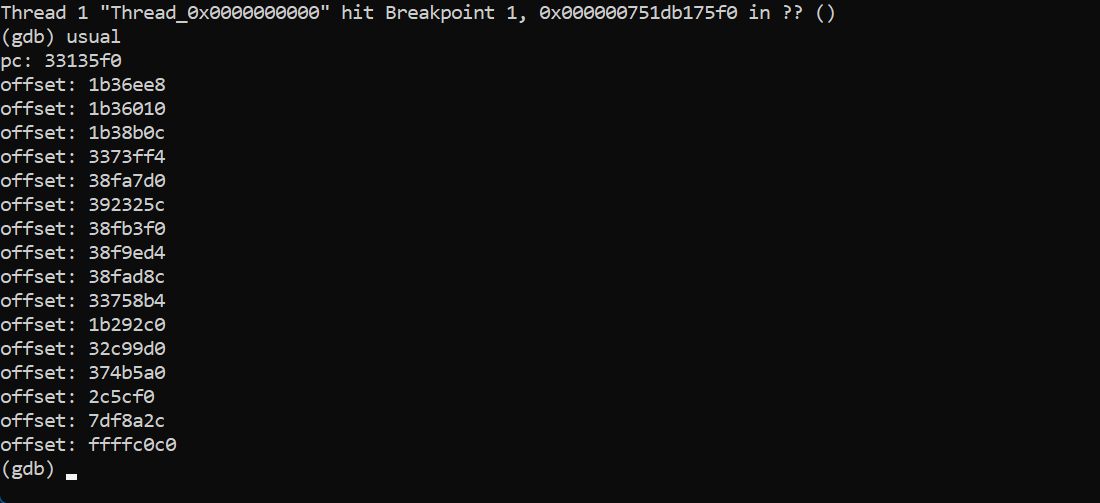
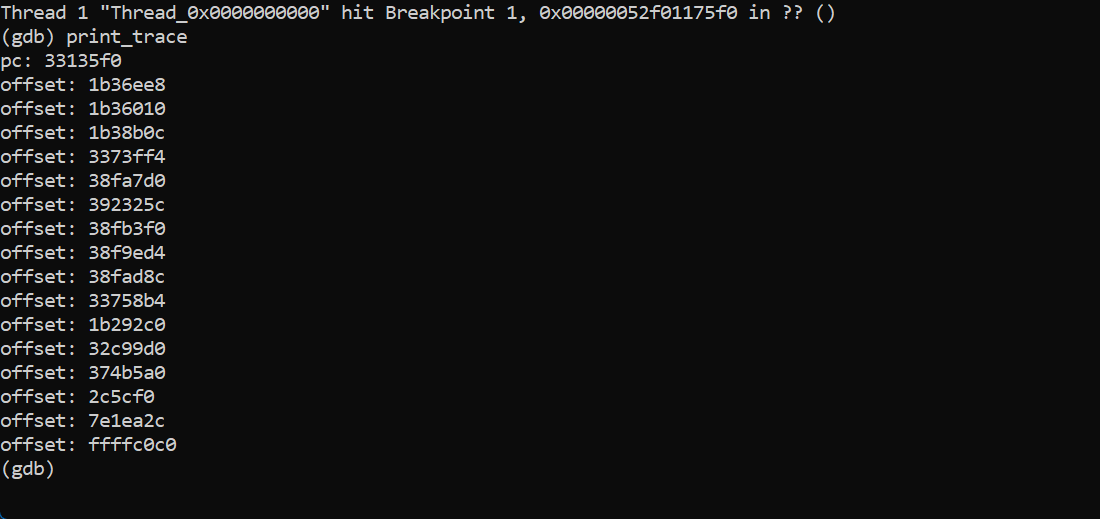
Update `usual` to `print_trace`

Changed region(s): [[0.0, 0.0, 0.4327, 0.9543], [0.4945, 0.0, 0.68, 0.0596]]

diff --git a/docs/Reverse Engineering/Walkthroughs/Disabling Auto-Play on Playlist Music Selection.md b/docs/Reverse Engineering/Walkthroughs/Disabling Auto-Play on Playlist Music Selection.md
@@ -40,13 +40,13 @@ We have our offset, so now we can start having the real fun 😈! We'll go ahead
 Let's go ahead and enter `c`, then get to the Stage Selection Screen and open up a playlist. When we trying playing a song with the `Y` button, the game freezes! Don't worry though, your game didn't crash. GDB stopped the game and now you can run commands in GDB.
 ![GDB breaking on a function](../../img/Walkthroughs/Disabling%20Auto-Play%20on%20Playlist%20Music%20Selection/pic_5.png)
 
-We can enter our commands into GDB, we'll run the `usual` command to get the current $pc (pc being the current offset we're at in the code), the $lr (lr being the instruction that we'll jump back to after our function is over), and the backtrace (a list keeping track of which offset to jump back to).
-!['usual' command being run on manually played back song](../../img/Walkthroughs/Disabling%20Auto-Play%20on%20Playlist%20Music%20Selection/pic_6.png)
+We can enter our commands into GDB, we'll run the `print_trace` command to get the current $pc (pc being the current offset we're at in the code), the $lr (lr being the instruction that we'll jump back to after our function is over), and the backtrace (a list keeping track of which offset to jump back to).
+!['print_trace' command being run on manually played back song](../../img/Walkthroughs/Disabling%20Auto-Play%20on%20Playlist%20Music%20Selection/pic_6.png)
 
 Keeping a note of this output in case we need to compare it to another scenario will be extremely helpful the more deeper you dive into reversing.
 
-We'll continue (type `c` and hit enter) and try to select a song by choosing it this time. When we press `A` to choose the game, the game freezes again! Just like before, the function got called, so let's go ahead and run the `usual` command again.
-!['usual' command being run on chosen song](../../img/Walkthroughs/Disabling%20Auto-Play%20on%20Playlist%20Music%20Selection/pic_7.png)
+We'll continue (type `c` and hit enter) and try to select a song by choosing it this time. When we press `A` to choose the game, the game freezes again! Just like before, the function got called, so let's go ahead and run the `print_trace` command again.
+!['print_trace' command being run on chosen song](../../img/Walkthroughs/Disabling%20Auto-Play%20on%20Playlist%20Music%20Selection/pic_7.png)
 
 Oho? What's this? The third offset in the chosen song playback is different than the third offset in the manually chosen playback. That's pretty interesting. Let's go ahead and jump to the third offset in the chosen song playback in Ghidra.
 
@@ -71,7 +71,7 @@ Success! Congratulations! You have successfully reversed and patched the game to
 ## Converting into a Skyline Plugin
 We have our newfound knowledge on how to prevent the game from automatically playing the music when we pick a song, but now we have to manually no_op the function every time we want the game to not play the song. If we want to distribute this as a mod so that users can enjoy it, we can't expect them to have GDB and be willing to put up with manually noping the instruction themselves every time. That's where skyline plugins come in! We'll create a sklyine plugin that patches the offset with a `nop` instruction every time the game boots!
 
-So first, we'll run the usual `cargo skyline new <project_name>` to make a new skyline project. Then open up that folder with your favorite IDE (I'll be using VSCode).
+So first, we'll run the `cargo skyline new <project_name>` command to make a new skyline project. Then open up that folder with your favorite IDE (I'll be using VSCode).
 
 Go to `src/lib.rs` and remove the `println!(...)` line from the main function. Now make a new line in `main()` and write the following:
 `skyline::patching::Patch::in_text(0x1b352a8).nop().expect("Failed to patch 0x1b352a8")`

diff --git a/docs/Reverse Engineering/GDB.md b/docs/Reverse Engineering/GDB.md
@@ -51,4 +51,4 @@ The .gdbinit file we set up earlier has these handful of functions that will be 
    - `break_at <offset>` -> Sets a breakpoint at an offset relative to the base of main
    - `localize <register/address>` -> Converts the value in the register (or the passed address) to an offset relative to the base of main
    - `xxd <address> <size>` -> Print a xxd dump of the address
-   - `usual` -> Runs `get_pc`, `localize $lr`, & `my_bt2` to get the current offset, the calling offset, and the backtrace in one command instead of three
+   - `print_trace` -> Runs `get_pc`, `localize $lr`, & `my_bt2` to get the current offset, the calling offset, and the backtrace in one command instead of three
